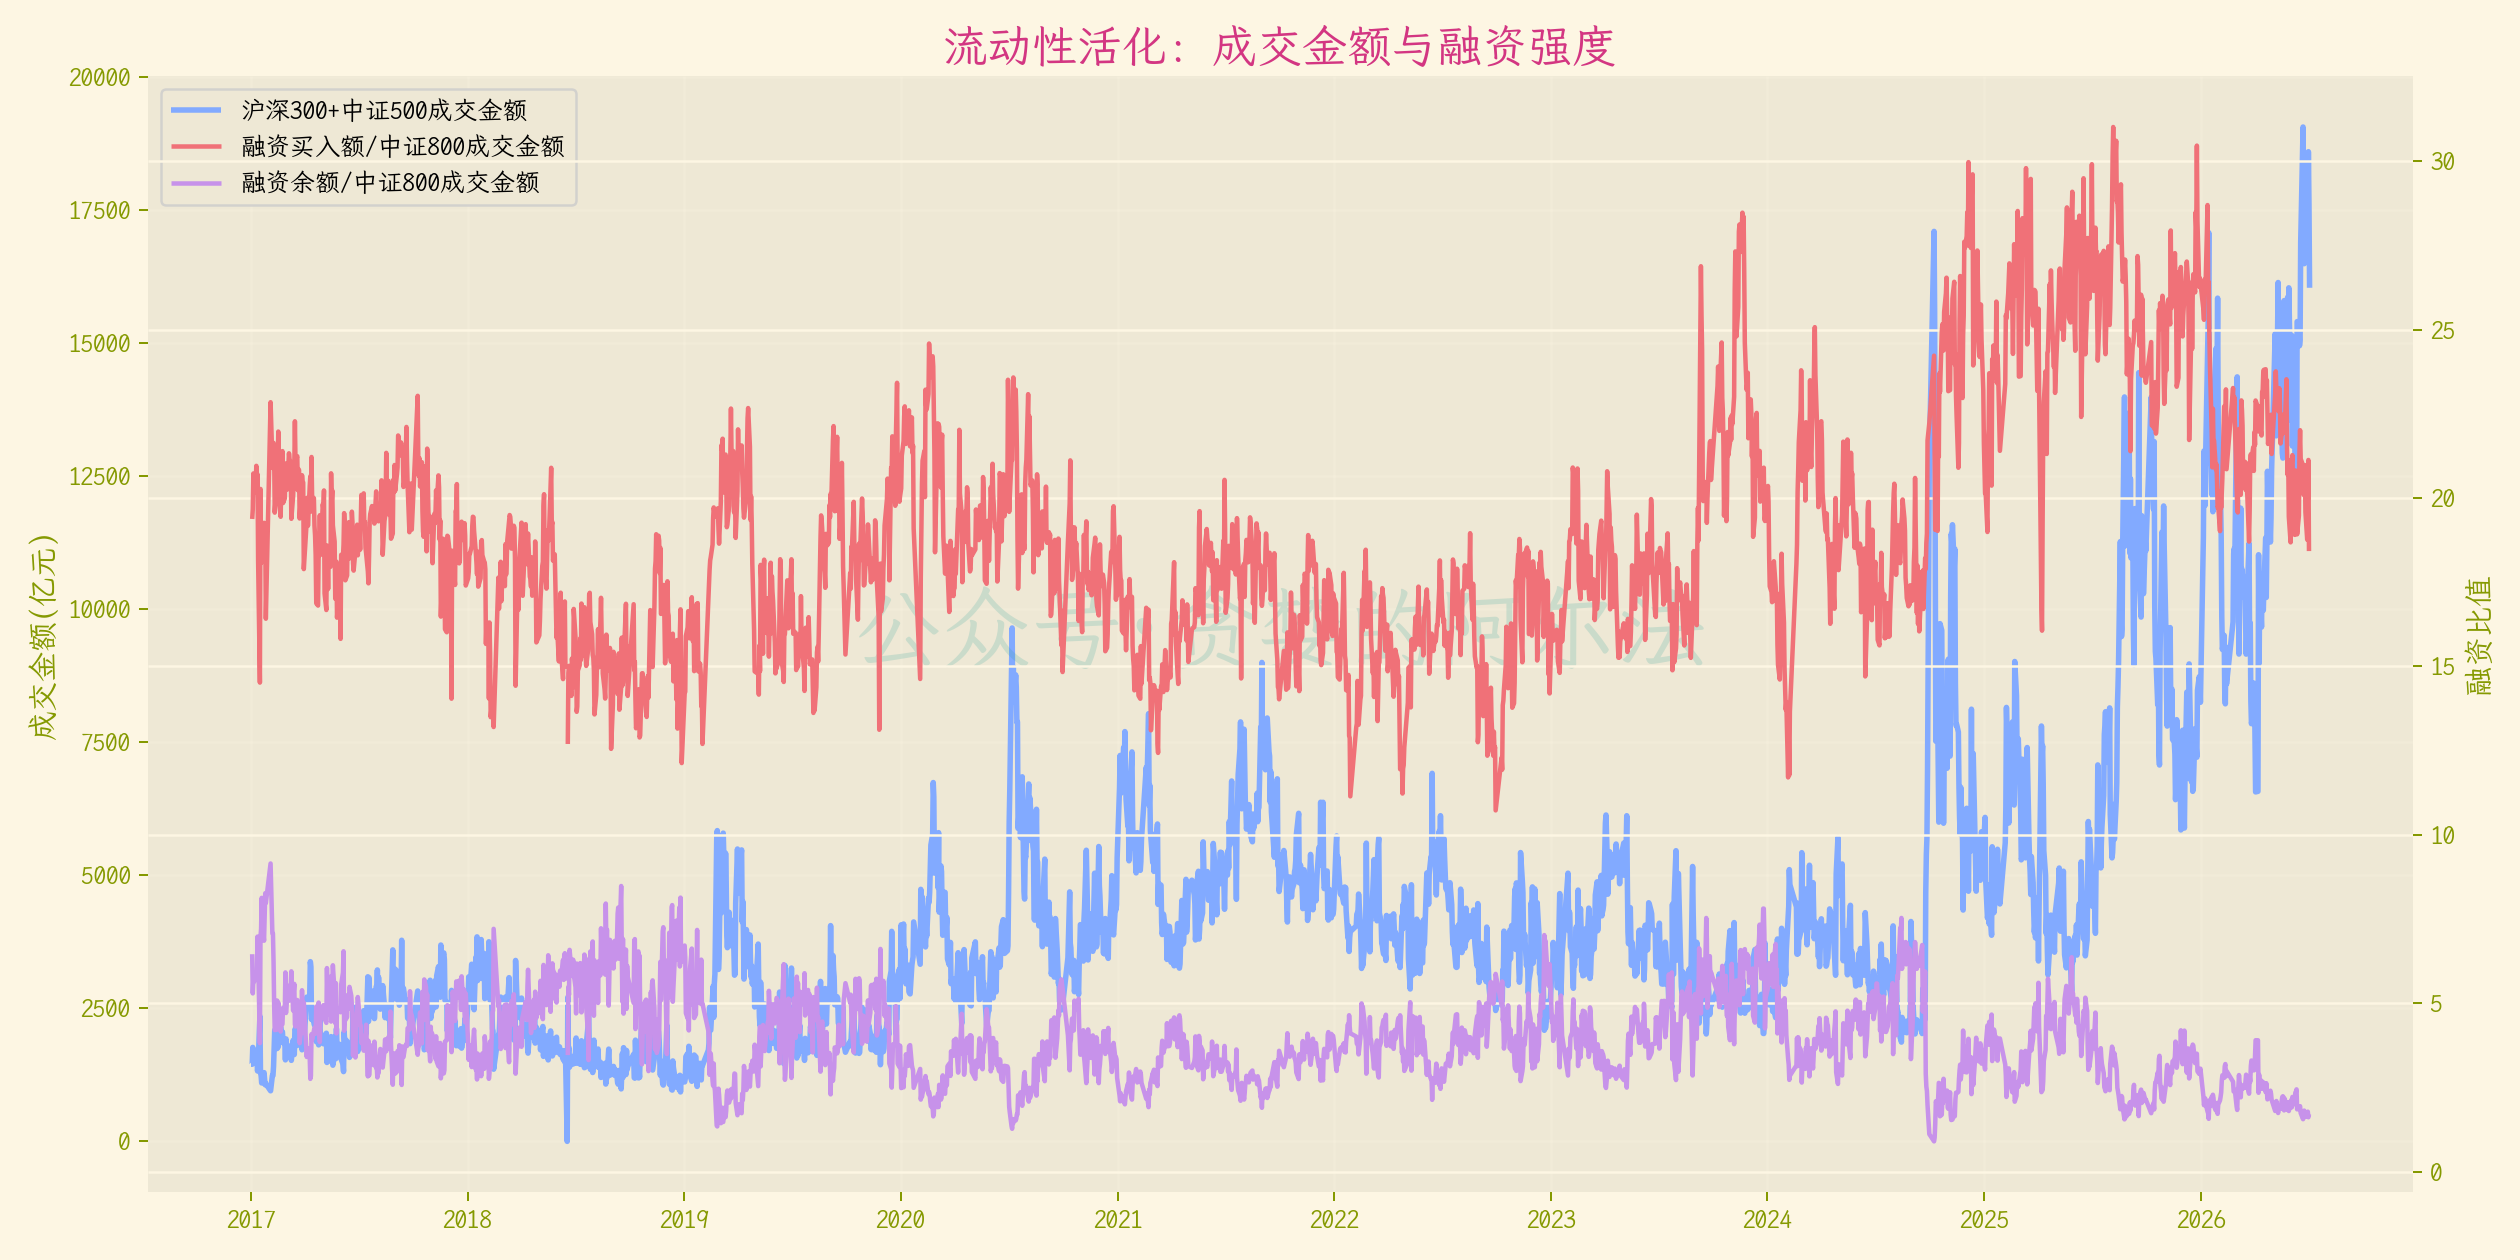
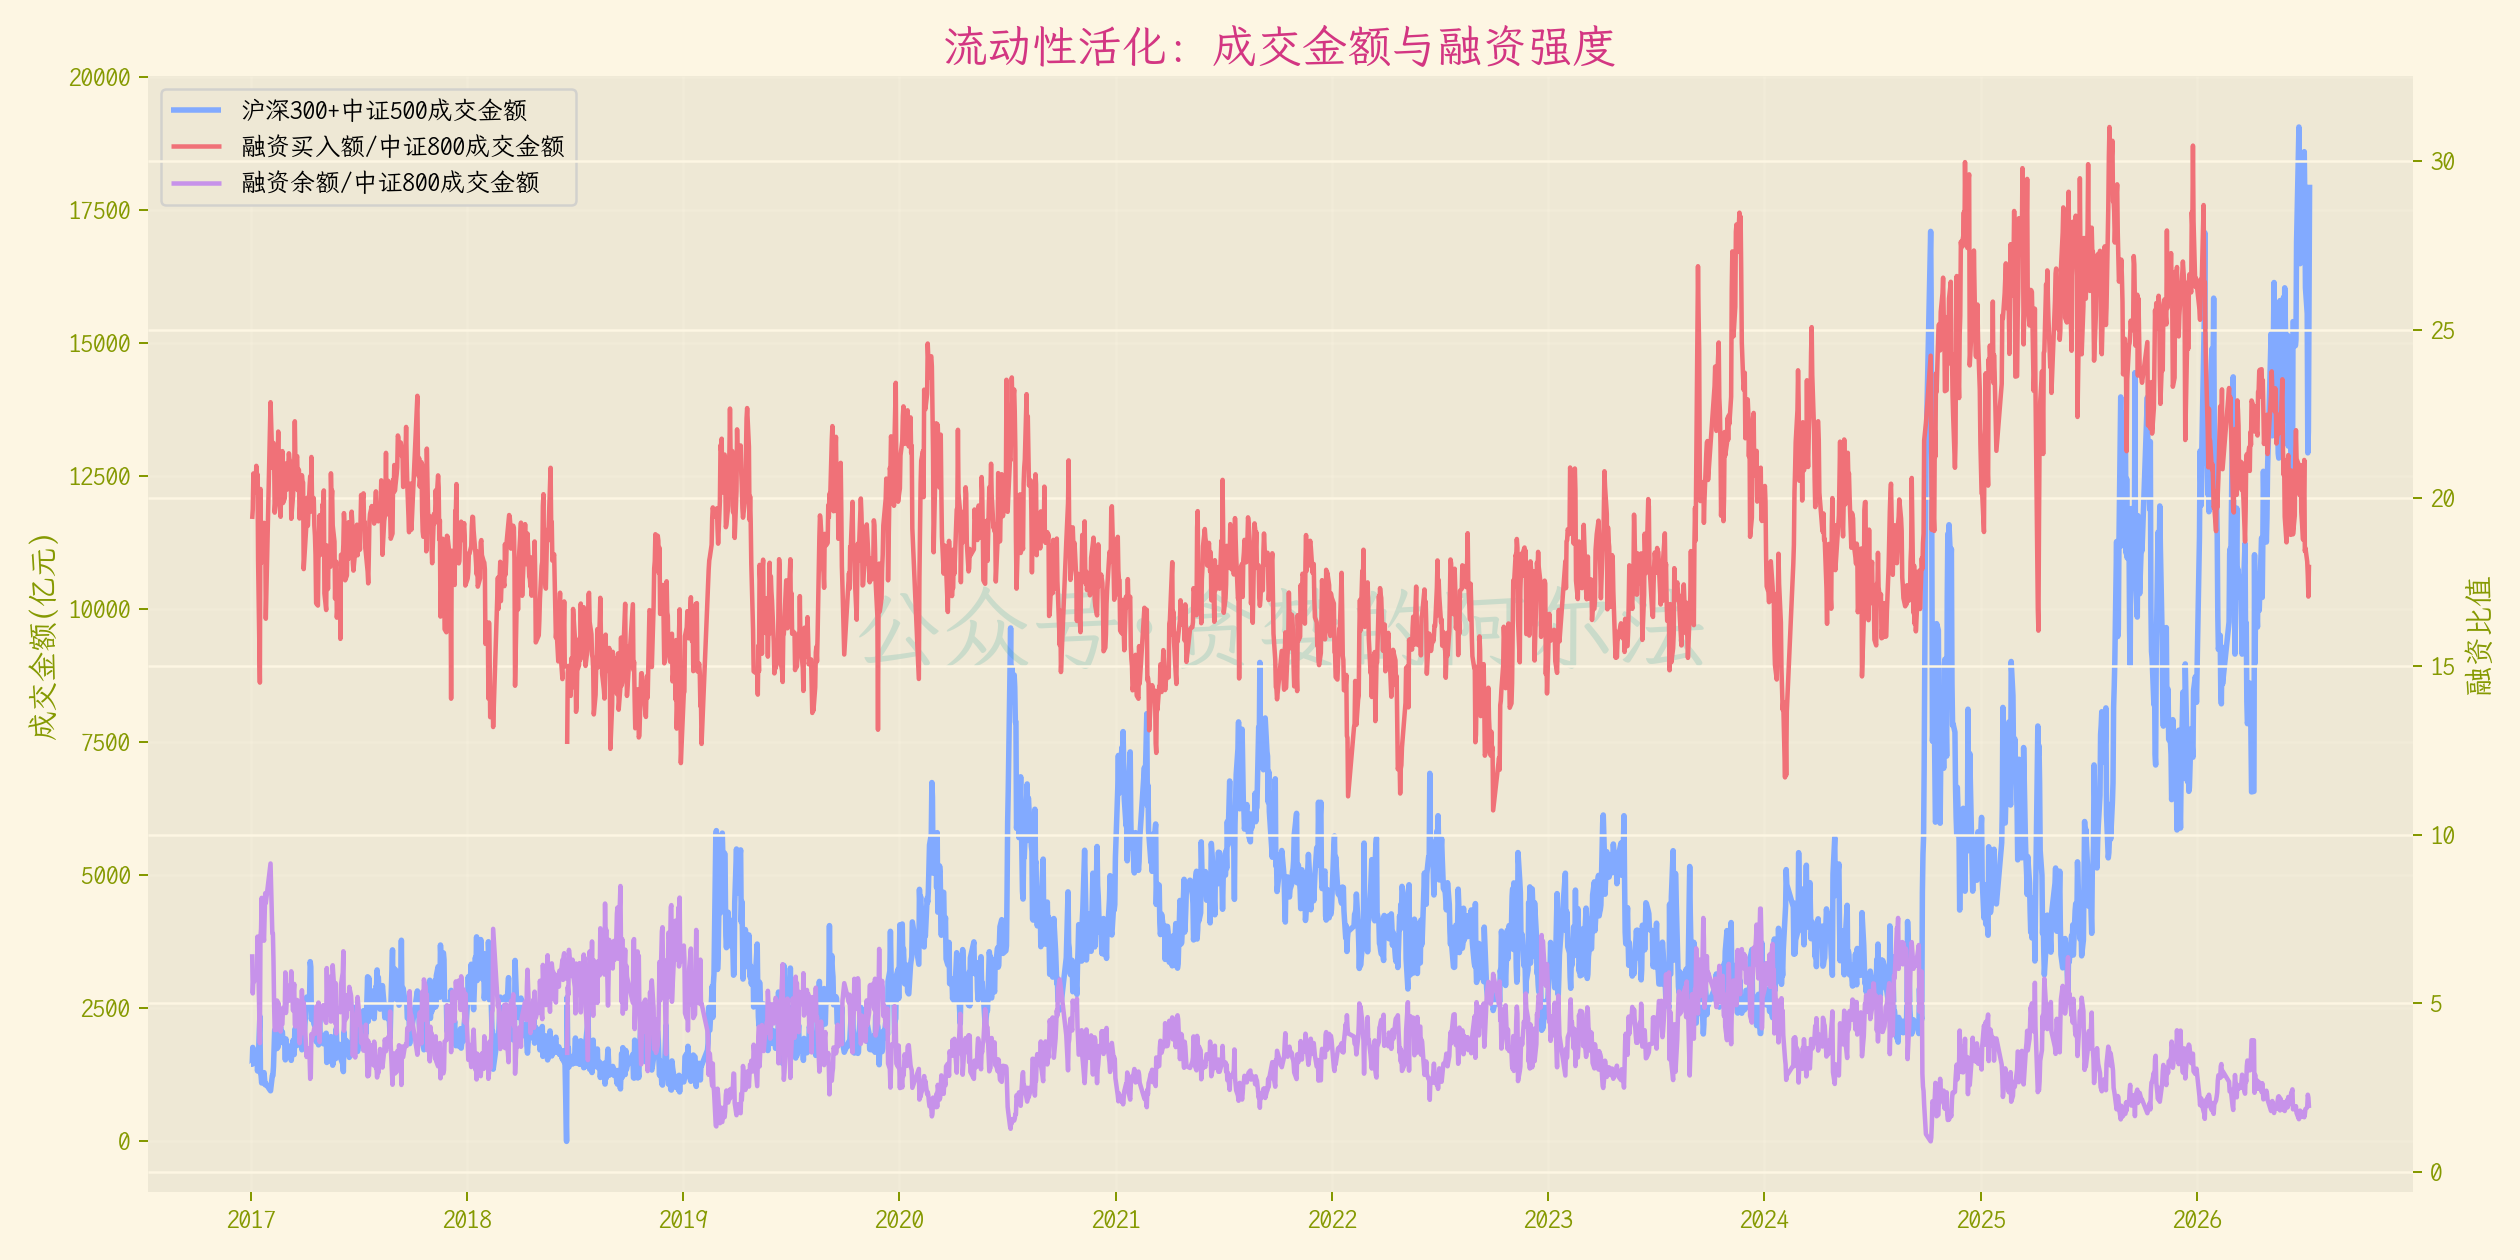
sync: 20260711

diff --git a/docs/bull_market/bull_market_score.md b/docs/bull_market/bull_market_score.md
@@ -1,13 +1,13 @@
 # 牛市概率评分
 
-当前总分：**69.8/100**
+当前总分：**68.0/100**
 
 状态判断：**牛市线索存在，但仍需宽度确认**
 
 | 模块 | 权重 | 得分 | 核心证据 |
 |---|---:|---:|---|
-| 全球 AI 重估 | 20 | 20.0 | 2023年以来截至2026-07-04，AI受益市场平均涨幅约 168.7%，中证500约 46.8%。 |
-| 国内宏观修复 | 20 | 17.0 | 2026-05-01 CPI 1.2%，PPI 3.9%，PMI 50.0，M1-M2 -3.1pct。 |
-| 流动性活化 | 20 | 12.8 | 2026-07-02 近20日融资买入额/成交金额约 20.26%，疫情前均值 17.93%。 |
-| 市场宽度扩散 | 20 | 6.7 | 2026-07-03 中证800 MA20宽度约 44%，60日创新高 10 只。 |
-| 估值与情绪空间 | 20 | 13.3 | 2026-07-03 10年国债 1.75%，沪深300股债收益差 5.14，中证500 1.48。 |
+| 全球 AI 重估 | 20 | 20.0 | 2023年以来截至2026-07-11，AI受益市场平均涨幅约 162.1%，中证500约 42.8%。 |
+| 国内宏观修复 | 20 | 15.0 | 2026-06-01 CPI 1.0%，PPI 4.1%，PMI 50.3，M1-M2 -3.1pct。 |
+| 流动性活化 | 20 | 12.5 | 2026-07-09 近20日融资买入额/成交金额约 19.65%，疫情前均值 17.93%。 |
+| 市场宽度扩散 | 20 | 6.0 | 2026-07-10 中证800 MA20宽度约 39%，60日创新高 7 只。 |
+| 估值与情绪空间 | 20 | 14.5 | 2026-07-10 10年国债 1.74%，沪深300股债收益差 5.18，中证500 1.60。 |
